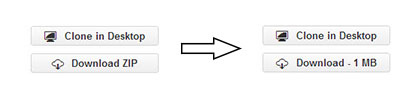
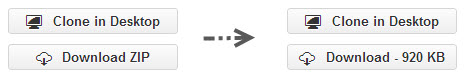
v0.9 && git push

diff --git a/script.js b/script.js
@@ -1,19 +1,34 @@
 var theElem = $("a:contains('Download ZIP')");
-$.getJSON("https://api.github.com/repos" + location.pathname).done( function(json) {
-   // console.log( "Size = " + json.size );
-   var size = json.size ;
 
-   if (size != null) {
-      if (size < 100) {
-         append = "ZIP";
-      }
-      else if (size < 1000) {
-         append = size + " KB";
-      }
-      else {
-         append = Math.round(size/1024) + " MB";
-      }
+// If the element exists
+if (theElem.length > 0) {
 
-      theElem.html(theElem.html().replace("ZIP", " - " + append));
-   }
-});
+   // Get the name of a repository from the URL
+   var s = location.pathname.split('/');
+   var repoName = s[1] + '/' + s[2];
+
+   console.log(repoName);
+
+   // Download the JSON containing info.
+   $.getJSON("https://api.github.com/repos/" + repoName)
+   .done( function(json) {
+
+      // The repo size.
+      var size = json.size ;
+
+      if (size != null) {
+
+         if (size < 100) {
+            append = "ZIP";
+         }
+         else if (size < 1000) {
+            append = size + " KB";
+         }
+         else {
+            append = Math.round(size/1024) + " MB";
+         }
+
+         theElem.html(theElem.html().replace("ZIP", " - " + append));
+      }
+   })
+}

diff --git a/README.md b/README.md
@@ -6,15 +6,16 @@ A Chrome extension to show the size of a Github repo.
 
 ## <a name="todo"></a>Stuff to do
 
-* Whatif the element doesn't exist?
-* Repo name from location.pathname?
+* Try doing it all without jQuery
 
-* 404 JSON Errors.
-
-* Fix some webresource errors.
 * Upload to Chrome WebStore
+* Port to Firefox
 
 ## <a name="log"></a>Changelog
+
+6/1/2014:
+
+* Simple updates
 
 5/1/2014:
 
